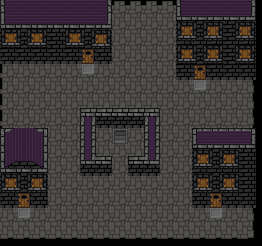
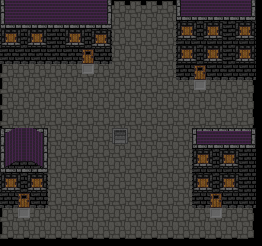
Overworld

Changed region(s): [[0.3053, 0.4268, 0.6107, 0.7398], [0.0, 0.9106, 0.0305, 0.9675], [0.0, 0.8537, 0.0305, 0.8821]]

diff --git a/core/src/main/java/com/lovecraftpixel/lovecraftpixeldungeon/levels/OverworldLevel.java b/core/src/main/java/com/lovecraftpixel/lovecraftpixeldungeon/levels/OverworldLevel.java
@@ -258,10 +258,10 @@ public class OverworldLevel extends Level {
 				/*5*/ w, e, e, e, e, e, e, e, e, e, e, s, s, s, s, s,
 				/*6*/ w, e, e, e, e, e, e, e, e, e, e, e, e, e, e, w,
 				/*7*/ w, e, e, e, e, e, e, e, e, e, e, e, e, e, e, w,
-				/*8*/ w, e, e, e, e, s, s, s, s, s, e, e, e, e, e, w,
-				/*9*/ s, s, s, e, e, s, e, X, e, s, e, e, s, s, s, s,
-				/*10*/s, s, s, e, e, s, e, e, e, s, e, e, s, s, s, s,
-				/*11*/s, s, s, e, e, s, s, e, s, s, e, e, s, s, s, s,
+				/*8*/ w, e, e, e, e, e, e, e, e, e, e, e, e, e, e, w,
+				/*9*/ s, s, s, e, e, e, e, X, e, e, e, e, s, s, s, s,
+				/*10*/s, s, s, e, e, e, e, e, e, e, e, e, s, s, s, s,
+				/*11*/s, s, s, e, e, e, e, e, e, e, e, e, s, s, s, s,
 				/*12*/s, s, s, e, e, e, e, e, e, e, e, e, s, s, s, s,
 				/*13*/s, s, s, e, e, e, e, e, e, e, e, e, s, s, s, s,
 				/*14*/w, e, e, e, e, e, e, e, e, e, e, e, e, e, e, w,
@@ -283,7 +283,7 @@ public class OverworldLevel extends Level {
 				/*10*/s, s, s, s, s, s, s, s, s, s, s, s, s, s, s, s,
 				/*11*/s, w, w, w, w, w, w, s, s, s, s, s, s, s, s, s,
 				/*12*/s, s, s, w, s, w, w, s, s, s, s, s, s, s, s, s,
-				/*13*/s, s, s, w, w, w, s, s, s, s, s, s, s, s, s, s,
+				/*13*/s, s, s, w, w, w, w, s, s, s, s, s, s, s, s, s,
 				/*14*/s, w, w, w, w, w, s, s, s, s, s, s, s, s, s, s,
 				/*15*/s, w, w, w, w, w, s, s, s, s, s, s, s, s, s, s,
 				/*16*/s, s, s, s, s, s, s, s, s, s, s, s, s, s, s, s,
@@ -294,9 +294,9 @@ public class OverworldLevel extends Level {
 				/*1*/ s, s, s, s, s, s, s, s, s, s, s, s, s, s, s, s,
 				/*2*/ s, s, s, s, s, s, s, s, s, s, s, s, s, s, s, s,
 				/*3*/ s, w, w, w, w, w, w, s, s, s, s, s, s, s, s, s,
-				/*4*/ s, w, w, w, w, w, w, s, s, s, s, s, s, s, s, s,
+				/*4*/ s, s, s, s, s, w, s, s, s, s, s, s, s, s, s, s,
 				/*5*/ s, w, w, w, w, w, w, s, s, s, s, s, s, s, s, s,
-				/*6*/ s, w, w, w, w, w, w, s, s, s, s, s, s, s, s, s,
+				/*6*/ s, s, w, w, w, w, s, s, s, s, s, s, s, s, s, s,
 				/*7*/ s, s, s, s, s, s, s, s, s, s, s, s, s, s, s, s,
 				/*8*/ s, s, s, s, s, s, s, s, s, s, s, s, s, s, s, s,
 				/*9*/ s, s, s, s, s, s, s, s, s, s, s, s, s, s, s, s,
@@ -317,13 +317,13 @@ public class OverworldLevel extends Level {
 				/*4*/ s, s, s, s, s, s, s, s, s, s, s, s, s, s, s, s,
 				/*5*/ s, s, s, s, s, s, s, s, s, s, s, s, s, s, s, s,
 				/*6*/ s, s, s, s, s, s, s, s, s, s, w, w, w, w, w, s,
-				/*7*/ s, s, s, s, s, s, s, s, s, s, w, w, w, w, w, s,
+				/*7*/ s, s, s, s, s, s, s, s, s, s, w, s, s, s, w, s,
 				/*8*/ s, s, s, s, s, s, s, s, s, s, w, w, w, w, w, s,
 				/*9*/ s, s, s, s, s, s, s, s, s, s, w, w, w, w, w, s,
-				/*10*/s, s, s, s, s, s, s, s, s, s, w, w, w, w, w, s,
-				/*11*/s, s, s, s, s, s, s, s, s, s, w, w, w, w, w, s,
-				/*12*/s, s, s, s, s, s, s, s, s, s, w, w, w, w, w, s,
-				/*13*/s, s, s, s, s, s, s, s, s, s, w, w, w, w, w, s,
+				/*10*/s, s, s, s, s, s, s, s, s, s, w, s, w, s, w, s,
+				/*11*/s, s, s, s, s, s, s, s, s, s, w, s, w, s, w, s,
+				/*12*/s, s, s, s, s, s, s, s, s, s, w, s, w, s, w, s,
+				/*13*/s, s, s, s, s, s, s, s, s, s, w, s, w, s, w, s,
 				/*14*/s, s, s, s, s, s, s, s, s, s, w, w, w, w, w, s,
 				/*15*/s, s, s, s, s, s, s, s, s, s, w, w, w, w, w, s,
 				/*16*/s, s, s, s, s, s, s, s, s, s, s, s, s, s, s, s,
@@ -333,7 +333,7 @@ public class OverworldLevel extends Level {
 			{       //1  2  3  4  5  6  7  8  9 10 11 12 13 14 15 16
 				/*1*/ s, s, s, s, s, s, s, s, s, s, s, s, s, s, s, s,
 				/*2*/ s, s, s, s, s, s, s, s, s, s, w, w, w, w, w, s,
-				/*3*/ s, s, s, s, s, s, s, s, s, s, w, w, w, w, w, s,
+				/*3*/ s, s, s, s, s, s, s, s, s, s, s, w, s, s, s, s,
 				/*4*/ s, s, s, s, s, s, s, s, s, s, w, w, w, w, w, s,
 				/*5*/ s, s, s, s, s, s, s, s, s, s, w, w, w, w, w, s,
 				/*6*/ s, s, s, s, s, s, s, s, s, s, w, w, w, w, w, s,
